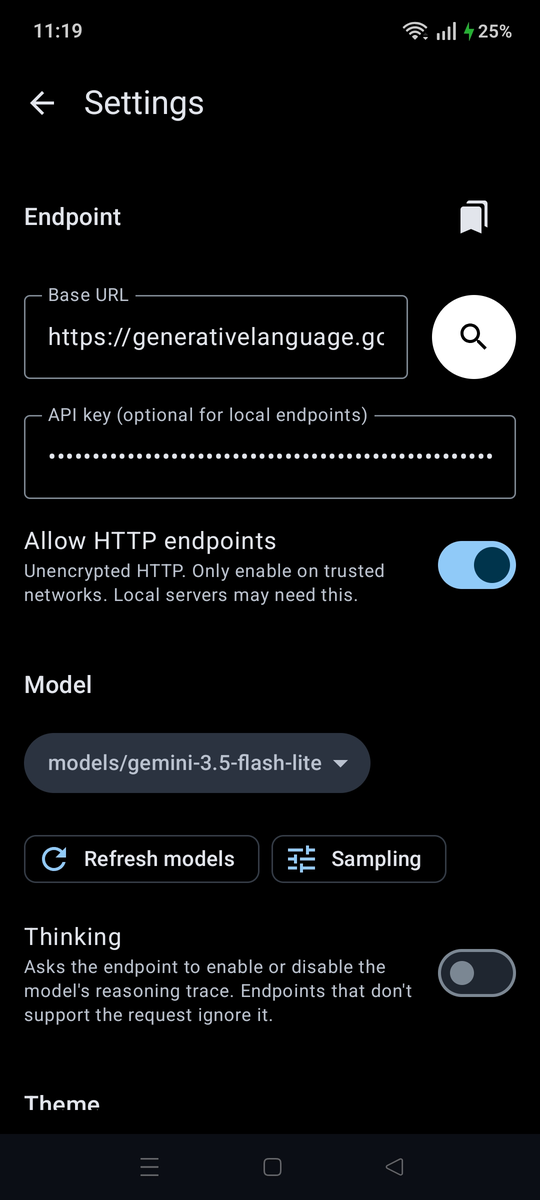
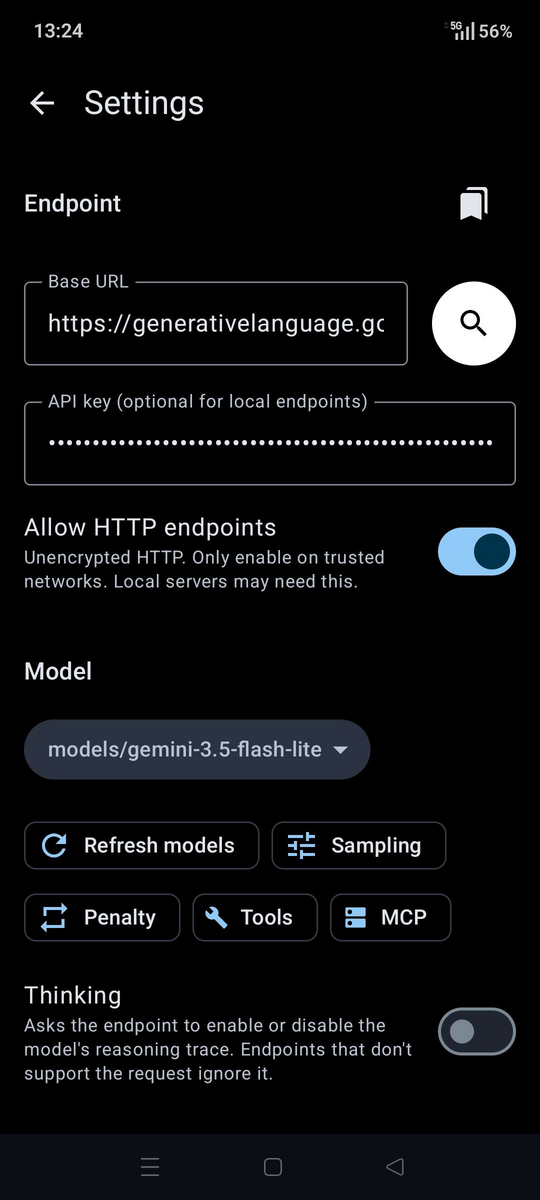
docs: refresh the settings screenshots

diff --git a/README.md b/README.md
@@ -18,8 +18,8 @@ server.
 <tr>
 <td width="25%"><a href="docs/screenshots/chat-multimodal.png"><img src="docs/screenshots/chat-multimodal.png" width="100%" alt="Chat with an image attachment, a Markdown reply and its generation-stats footnote" /></a></td>
 <td width="25%"><a href="docs/screenshots/drawer.png"><img src="docs/screenshots/drawer.png" width="100%" alt="Chat drawer with saved conversations, a New chat action and an overflow menu" /></a></td>
-<td width="25%"><a href="docs/screenshots/settings-endpoint.png"><img src="docs/screenshots/settings-endpoint.png" width="100%" alt="Endpoint, model, sampling and thinking settings" /></a></td>
-<td width="25%"><a href="docs/screenshots/settings-theme.png"><img src="docs/screenshots/settings-theme.png" width="100%" alt="Theme accent, composer background and profile settings" /></a></td>
+<td width="25%"><a href="docs/screenshots/settings-endpoint.png"><img src="docs/screenshots/settings-endpoint.png" width="100%" alt="Endpoint, model, sampling, penalty, tools, MCP and thinking settings" /></a></td>
+<td width="25%"><a href="docs/screenshots/settings-theme.png"><img src="docs/screenshots/settings-theme.png" width="100%" alt="App language, accent, composer background and profile settings" /></a></td>
 </tr>
 <tr>
 <td align="center"><sub><b>Multimodal chat</b></sub></td>
